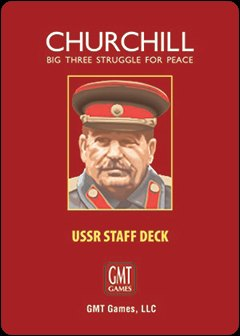
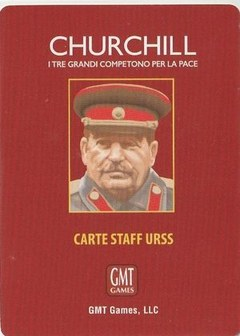
Carte in italiano: staff, leader, Conferenza e retri dalle scansioni dell'edizione italiana
I fogli delle carte (staff UK, USA e URSS, leader, carte Conferenza, retri e ritratti)
ora vengono dalle scansioni italiane della cartella Churchill, nello stesso ordine e
formato di prima (celle 240x336, compressione lossy per la versione web).

Claude-Session: https://claude.ai/code/session_01P9P9gPX3kj1A3eeTtV6CnN

diff --git a/README.md b/README.md
@@ -2,7 +2,8 @@
 
 Versione digitale per uso personale di **Churchill: Big Three Struggle for Peace** di Mark Herman
 (GMT Games, 2ª edizione con l'errata del settembre 2015). Mappa, carte e regole © dei rispettivi autori:
-le immagini vengono dal modulo Tabletop Simulator e non vanno distribuite pubblicamente.
+le immagini vengono dal modulo Tabletop Simulator e, per le carte (staff, leader, Conferenza e retri),
+dalle scansioni dell'edizione italiana; non vanno distribuite pubblicamente.
 
 **Gioca nel browser:** https://tannoiser2.github.io/Churchill/
 
@@ -92,7 +93,8 @@ scripts/ui/                  menu, vista di gioco (tavolo e mappa), regole
 tests/sim.gd                 godot --headless -s res://tests/sim.gd -- 20 1 1 1 1   (partite IA contro IA: partite, scenario, livelli)
 tests/shot.gd                xvfb-run godot -s res://tests/shot.gd -- game 1         (screenshot, partita intera dall'interfaccia)
 tests/online_play.gd         prova online con tests/firebase_mock.py
-assets/                      mappa divisa in tavolo e fronti, fogli delle carte, gettoni dei temi (dal modulo TTS), font OFL
+assets/                      mappa divisa in tavolo e fronti, gettoni dei temi (dal modulo TTS), fogli delle carte
+                             (scansioni dell'edizione italiana), font OFL
 ```
 
 ## Scelte da verificare
